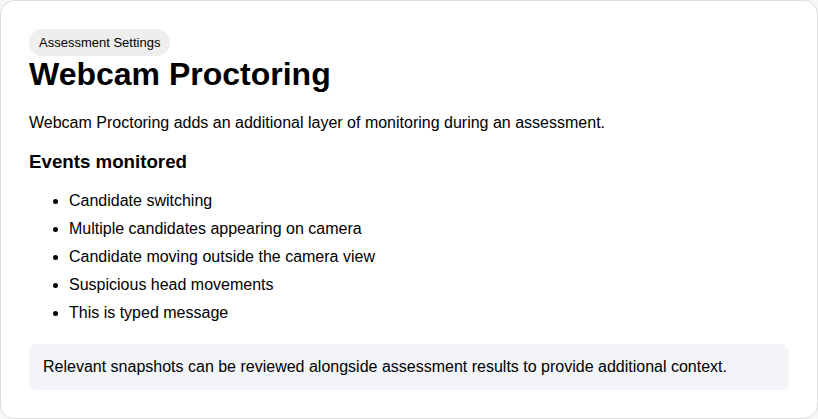
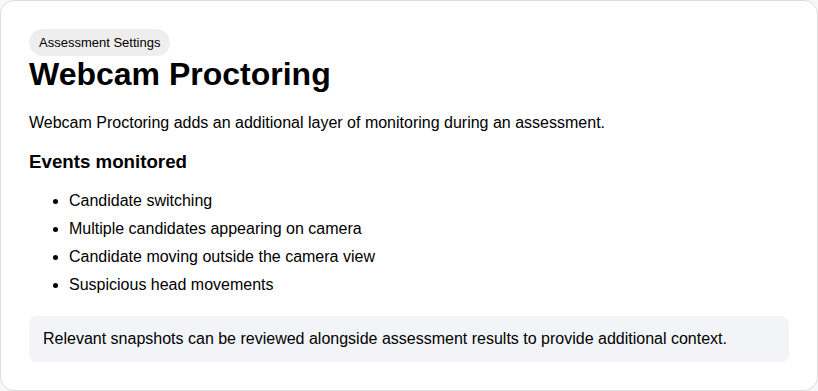
Auto-update docs and screenshot

diff --git a/product-demo/index.html b/product-demo/index.html
@@ -63,7 +63,6 @@ li {
 <li>Multiple candidates appearing on camera</li>
 <li>Candidate moving outside the camera view</li>
 <li>Suspicious head movements</li>
-<li>This is typed message </li>
 </ul>
 
 <div class="note">

diff --git a/docs/webcam-proctoring.md b/docs/webcam-proctoring.md
@@ -8,7 +8,6 @@ Webcam Proctoring adds an additional layer of monitoring during an assessment.
 - Multiple candidates appearing on camera
 - Candidate moving outside the camera view
 - Suspicious head movements
-- This is typed message 
 
 Relevant snapshots can be reviewed alongside assessment results to provide additional context.
 
